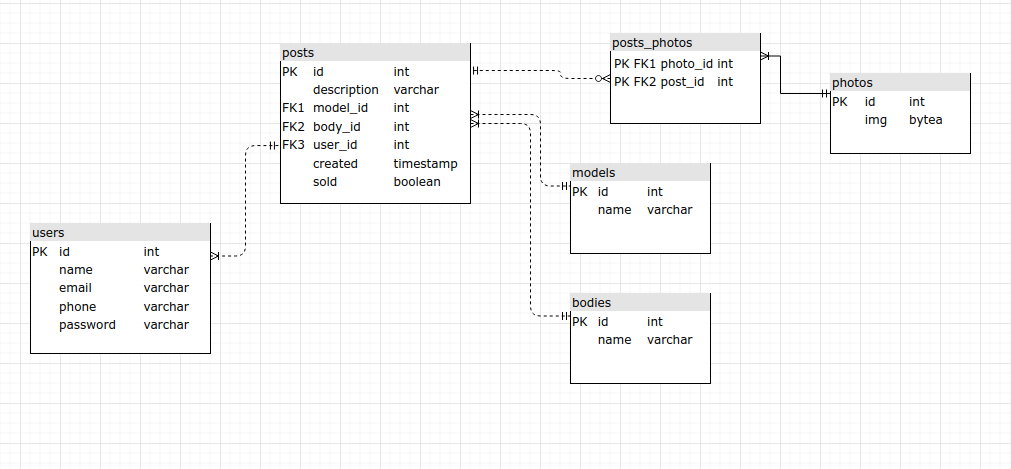
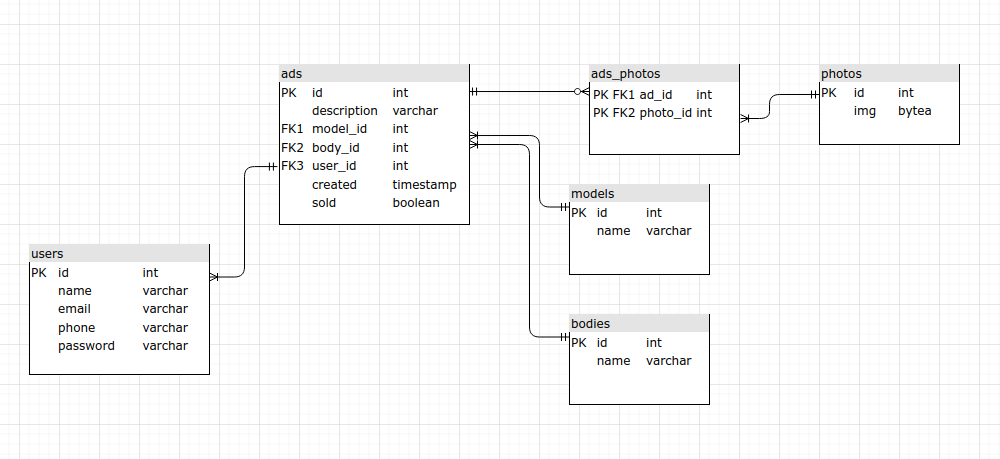
Реализовать пользовательские фильтры для площадок машин [#466422]

diff --git a/src/main/java/ru/job4j/cars/model/AdRepository.java b/src/main/java/ru/job4j/cars/model/AdRepository.java
@@ -1,0 +1,71 @@
+package ru.job4j.cars.model;
+
+import org.hibernate.Session;
+import org.hibernate.SessionFactory;
+import org.hibernate.Transaction;
+import org.hibernate.boot.MetadataSources;
+import org.hibernate.boot.registry.StandardServiceRegistry;
+import org.hibernate.boot.registry.StandardServiceRegistryBuilder;
+import org.slf4j.Logger;
+import org.slf4j.LoggerFactory;
+
+import java.util.List;
+import java.util.Optional;
+import java.util.function.Function;
+
+public class AdRepository {
+    private final StandardServiceRegistry REGISTRY = new StandardServiceRegistryBuilder()
+            .configure().build();
+    private final SessionFactory SF = new MetadataSources(REGISTRY)
+            .buildMetadata().buildSessionFactory();
+    private static final Logger LOG = LoggerFactory.getLogger(AdRepository.class.getName());
+    public static AdRepository instOf() {
+        return Lazy.INST;
+    }
+
+    private static final class Lazy {
+        private final static AdRepository INST = new AdRepository();
+    }
+
+    private <T> Optional<T> txFunc(final Function<Session, T> command) {
+        final Session session = SF.openSession();
+        final Transaction tx = session.beginTransaction();
+        try {
+            T rsl = command.apply(session);
+            tx.commit();
+            return Optional.of(rsl);
+        } catch (final Exception e) {
+            session.getTransaction().rollback();
+            LOG.error("Exception: ", e);
+        } finally {
+            session.close();
+        }
+        return Optional.empty();
+    }
+
+    public Optional<List<Ad>> findTodayAds() {
+        return this.txFunc(session -> session.createQuery(
+                "select distinct a from Ad a join fetch a.body"
+        + " join fetch a.model join fetch a.user left join fetch a.photos"
+        + " where DATE(a.created) = current_date ", Ad.class).list());
+    }
+
+    public Optional<List<Ad>> findAdsWithPhoto() {
+        return this.txFunc(session -> session.createQuery(
+                "select distinct a from Ad a join fetch a.body"
+                        + " join fetch a.model join fetch a.user join fetch a.photos p"
+                , Ad.class).list());
+    }
+
+    public Optional<List<Ad>> findAdsByModel(Model model) {
+        return this.txFunc(session -> session.createQuery(
+                "select distinct a from Ad a join fetch a.body"
+                        + " join fetch a.model m join fetch a.user" +
+                        " left join fetch a.photos where m = :modelParam", Ad.class)
+                .setParameter("modelParam", model).list());
+    }
+
+    public void close() {
+        StandardServiceRegistryBuilder.destroy(REGISTRY);
+    }
+}

diff --git a/src/main/java/ru/job4j/cars/model/Ad.java b/src/main/java/ru/job4j/cars/model/Ad.java
@@ -5,8 +5,8 @@ import javax.persistence.*;
 import java.util.*;
 
 @Entity
-@Table(name = "posts")
-public class Post {
+@Table(name = "ads")
+public class Ad {
     @Id
     @GeneratedValue(strategy = GenerationType.IDENTITY)
     private int id;
@@ -17,32 +17,32 @@ public class Post {
     private Date created = new Date(System.currentTimeMillis());
     @Column(nullable = false)
     private boolean sold;
-    @ManyToOne
+    @ManyToOne(fetch = FetchType.LAZY)
     @JoinColumn(name = "model_id",  foreignKey = @ForeignKey(name = "MODEL_ID_FK"))
     private Model model;
-    @ManyToOne
+    @ManyToOne(fetch = FetchType.LAZY)
     @JoinColumn(name = "body_id", foreignKey = @ForeignKey(name = "BODY_ID_FK"))
     private Body body;
-    @OneToMany(fetch = FetchType.LAZY, cascade = CascadeType.ALL)
-    @JoinTable(name = "posts_photos",
+    @OneToMany(fetch = FetchType.LAZY, cascade = CascadeType.ALL, orphanRemoval = true)
+    @JoinTable(name = "ads_photos",
             joinColumns = {@JoinColumn(
-                    name = "post_id", nullable = false,
-                    foreignKey = @ForeignKey(name = "POST_ID_FK"))
+                    name = "ad_id", nullable = false,
+                    foreignKey = @ForeignKey(name = "AD_ID_FK"))
             },
             inverseJoinColumns = {@JoinColumn(
                     name = "photo_id", nullable = false,
                     foreignKey = @ForeignKey(name = "PHOTO_ID_FK"))
             })
     private List<Photo> photos = new LinkedList<>();
-    @ManyToOne
+    @ManyToOne(fetch = FetchType.LAZY)
     @JoinColumn(name = "user_id", foreignKey = @ForeignKey(name = "USER_ID_FK"))
     private User user;
 
-    public Post(String description) {
+    public Ad(String description) {
         this.description = description;
     }
 
-    public Post() {
+    public Ad() {
     }
 
     public void addPhoto(Photo photo) {
@@ -121,12 +121,26 @@ public class Post {
         if (o == null || getClass() != o.getClass()) {
             return false;
         }
-        Post post = (Post) o;
-        return id == post.id;
+        Ad ad = (Ad) o;
+        return id == ad.id;
     }
 
     @Override
     public int hashCode() {
         return Objects.hash(id);
+    }
+
+    @Override
+    public String toString() {
+        return "Ad{"
+                + "id=" + id
+                + ", description='" + description + '\''
+                + ", created=" + created
+                + ", sold=" + sold
+                + ", model=" + model
+                + ", body=" + body
+                + ", photos=" + photos
+                + ", user=" + user
+                + '}';
     }
 }

diff --git a/src/main/java/ru/job4j/cars/model/User.java b/src/main/java/ru/job4j/cars/model/User.java
@@ -84,4 +84,15 @@ public class User {
     public int hashCode() {
         return Objects.hash(id);
     }
+
+    @Override
+    public String toString() {
+        return "User{"
+                + "id=" + id
+                + ", name='" + name + '\''
+                + ", email='" + email + '\''
+                + ", phone='" + phone + '\''
+                + ", password='" + password + '\''
+                + '}';
+    }
 }

diff --git a/src/main/java/ru/job4j/cars/model/Model.java b/src/main/java/ru/job4j/cars/model/Model.java
@@ -51,4 +51,12 @@ public class Model {
     public int hashCode() {
         return Objects.hash(id);
     }
+
+    @Override
+    public String toString() {
+        return "Model{"
+                + "id=" + id
+                + ", name='" + name + '\''
+                + '}';
+    }
 }

diff --git a/src/main/java/ru/job4j/cars/model/Body.java b/src/main/java/ru/job4j/cars/model/Body.java
@@ -51,4 +51,12 @@ public class Body {
     public int hashCode() {
         return Objects.hash(id);
     }
+
+    @Override
+    public String toString() {
+        return "Body{"
+                + "id=" + id
+                + ", name='" + name + '\''
+                + '}';
+    }
 }
